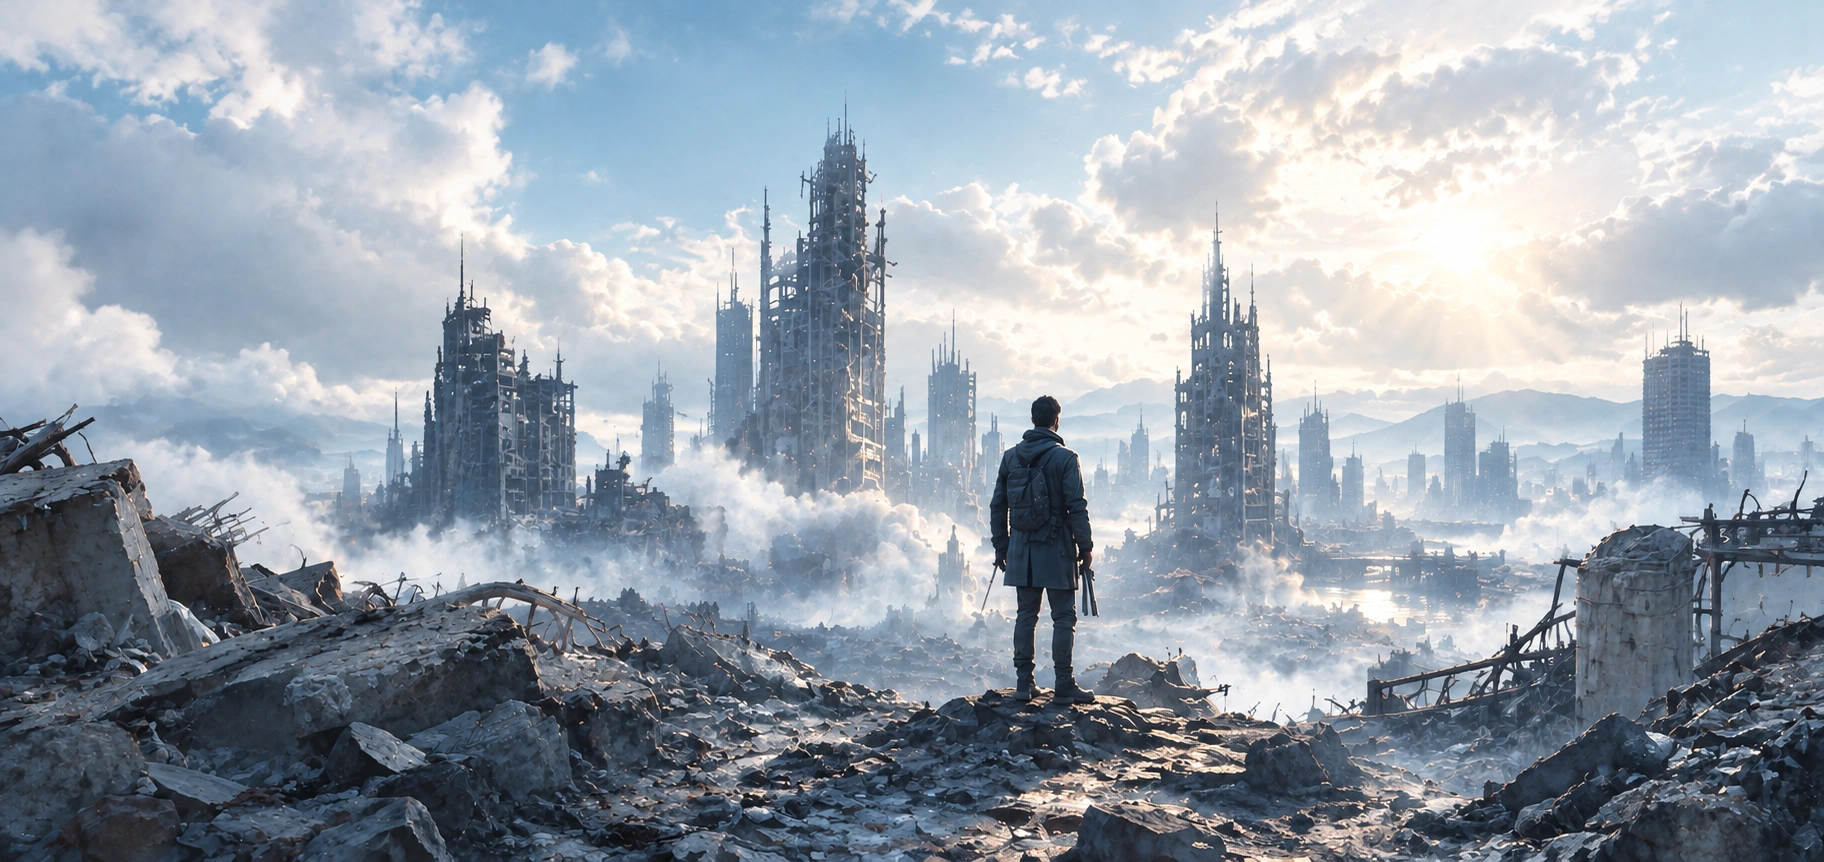
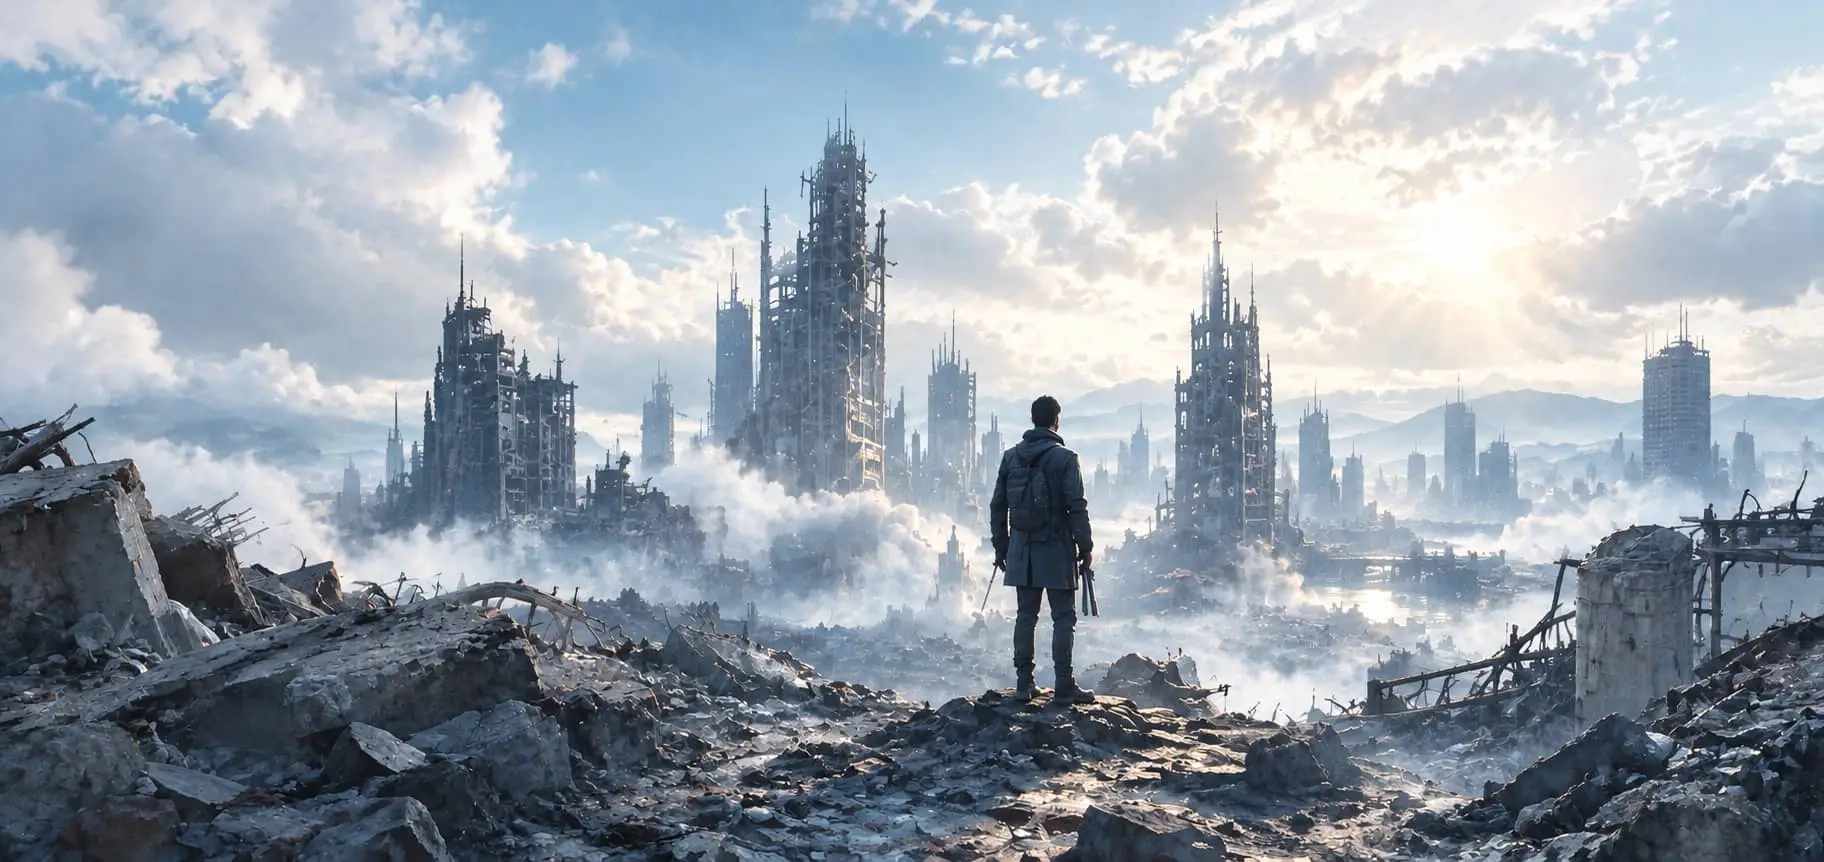
Added picture tag for different photos for desktop and mobiles, reduced its size etec

Changed region(s): [[0.625, 0.8747, 0.6562, 0.9049], [0.5938, 0.8144, 0.625, 0.8445]]

diff --git a/src/pages/Movies.jsx b/src/pages/Movies.jsx
@@ -6,11 +6,12 @@ import ModalOverlay from "../components/ModalOverlay.jsx";
 import useModalFromLocation from "../components/hooks/useModalFromLocation";
 import MoviesFilter from "../components/MoviesFilter.jsx";
 import useIsMobile from "../components/hooks/useIsMobile.jsx";
-import WaitingMovie from "../components/WaitingMovie.jsx";
 import MovieCarousel from "../components/MovieCarousel.jsx";
 import MovieCardPhones from "../components/MovieCardPhones.jsx";
 import MoviesBackground from "../assets/movies/MoviesBackground.webp";
 import MoviesBackgroundLight from "../assets/movies/MoviesBackgroundLight.webp";
+import MoviesBackgroundMobile from "../assets/movies/MoviesBackgroundMobile.webp";
+import MoviesBackgroundLightMobile from "../assets/movies/MoviesBackgroundLightMobile.webp";
 import DuneThree from "../assets/images/waiting-images/DuneThree.webp";
 import Odyssey from "../assets/images/waiting-images/Odyssey.webp";
 import AvengersDoomsday from "../assets/images/waiting-images/AvengersDoomsday.webp";
@@ -151,14 +152,23 @@ export default function Movies({ language, timeLeft, theme }) {
       window.removeEventListener("resize", handleResize);
     };
   }, []);
+
+  const currentMobileBackground =
+    theme === "dark" ? MoviesBackgroundMobile : MoviesBackgroundLightMobile;
+  const currentDesktopBackground =
+    theme === "dark" ? MoviesBackground : MoviesBackgroundLight;
   return (
     <main className="movies-page">
       <section className="movies-intro">
-        <img
-          src={theme === "dark" ? MoviesBackground : MoviesBackgroundLight}
-          className="movies-hero-image"
-          alt="bg"
-        />
+        <picture className="movies-hero-picture">
+          <source media="(max-width: 768px)" srcSet={currentMobileBackground} />
+          <img
+            src={currentDesktopBackground}
+            className="movies-hero-image"
+            alt="bg"
+            fetchPriority="high"
+          />
+        </picture>
         <div className="movies-intro-text">
           <p className="movies-label">{t.label}</p>
           <h1>

diff --git a/src/pages/TVSeries.jsx b/src/pages/TVSeries.jsx
@@ -12,6 +12,8 @@ import MovieCarousel from "../components/MovieCarousel.jsx";
 import MovieCardPhones from "../components/MovieCardPhones.jsx";
 import SeriesBackground from "../assets/series/SeriesBackground.webp";
 import SeriesBackgroundLight from "../assets/series/SeriesBackgroundLight.webp";
+import SeriesBackgroundMobile from "../assets/series/SeriesBackgroundMobile.webp";
+import SeriesBackgroundLightMobile from "../assets/series/SeriesBackgroundLightMobile.webp";
 import TheRingsOfPower from "../assets/images/waiting-images/TheRingsOfPower.webp";
 import TenThousandsShips from "../assets/images/waiting-images/TenThousandsShips.webp";
 import TheWitcher from "../assets/images/waiting-images/TheWitcher.webp";
@@ -151,14 +153,23 @@ export default function TVSeries({ language, timeLeft, theme }) {
       window.removeEventListener("resize", handleResize);
     };
   }, []);
+
+  const currentMobileBackground =
+    theme === "dark" ? SeriesBackgroundMobile : SeriesBackgroundLightMobile;
+  const currentDesktopBackground =
+    theme === "dark" ? SeriesBackground : SeriesBackgroundLight;
   return (
     <main className="series-page">
       <section className="movies-intro">
-        <img
-          src={theme === "dark" ? SeriesBackground : SeriesBackgroundLight}
-          className="movies-hero-image"
-          alt="bg"
-        />
+        <picture className="movies-hero-picture">
+          <source media="(max-width: 768px)" srcSet={currentMobileBackground} />
+          <img
+            src={currentDesktopBackground}
+            className="movies-hero-image"
+            alt="bg"
+            fetchPriority="high"
+          />  
+        </picture>
         <div className="movies-intro-text">
           <p className="movies-label">{t.label}</p>
           <h1>

diff --git a/src/pages/Main.jsx b/src/pages/Main.jsx
@@ -2,6 +2,8 @@ import "../styles/Main.css";
 import { Link } from "react-router-dom";
 import HeroBackground from "../assets/main/HeroBackground.webp";
 import HeroBackgroundLight from "../assets/main/HeroBackgroundLight.webp";
+import HeroBackgroundMobile from "../assets/main/HeroBackgroundMobile.webp";
+import HeroBackgroundLightMobile from "../assets/main/HeroBackgroundLightMobile.webp";
 import StatsPanel from "../components/StatsPanel";
 import MarqueeTrack from "../components/MarqueeTrack";
 import VisitorCounter from "../components/VisitorCounter";
@@ -26,7 +28,11 @@ const translations = {
 };
 export default function Main({ language, theme }) {
   const t = translations[language] || translations.eng;
-  
+
+  const currentMobileBackground =
+    theme === "dark" ? HeroBackgroundMobile : HeroBackgroundLightMobile;
+  const currentDesktopBackground =
+    theme === "dark" ? HeroBackground : HeroBackgroundLight;
   return (
     <main>
       <section className="hero-section">
@@ -45,11 +51,18 @@ export default function Main({ language, theme }) {
             </div>
           </div>
           <div className="hero-center">
-            <img
-              src={theme === "dark" ? HeroBackground : HeroBackgroundLight}
-              alt="Hero"
-              className="hero-image"
-            />
+            <picture>
+              <source
+                media="(max-width: 768px)"
+                srcSet={currentMobileBackground}
+              />
+              <img
+                src={currentDesktopBackground}
+                alt="Hero"
+                className="hero-image"
+                fetchPriority="high"
+              />
+            </picture>
           </div>
           <StatsPanel language={language} />
         </div>

diff --git a/src/styles/Movies.css b/src/styles/Movies.css
@@ -8,7 +8,17 @@
   margin: 50px auto;
   isolation: isolate;
 }
-
+.movies-hero-picture,
+.movies-hero-image {
+  position: absolute;
+  top: 0;
+  left: 0;
+  width: 100%;
+  height: 100%;
+  object-fit: cover; 
+  z-index: -1; 
+  pointer-events: none; 
+}
 
 .movies-hero-image {
   position: absolute;

diff --git a/src/components/MovieCard.jsx b/src/components/MovieCard.jsx
@@ -39,7 +39,6 @@ export default function MovieCard({
     const handleResize = () => {
       setIsMobile(window.innerWidth < 768);
     };
-    ч;
     handleResize();
     window.addEventListener("resize", handleResize);
     return () => window.removeEventListener("resize", handleResize);

diff --git a/src/components/MarqueeTrack.jsx b/src/components/MarqueeTrack.jsx
@@ -1,4 +1,4 @@
-import React, { useMemo } from "react";
+import React, { useState, useMemo, useEffect } from "react";
 import { Link } from "react-router-dom";
 import StarRating from "./StarRating";
 import { movies } from "../assets/data/movies";
